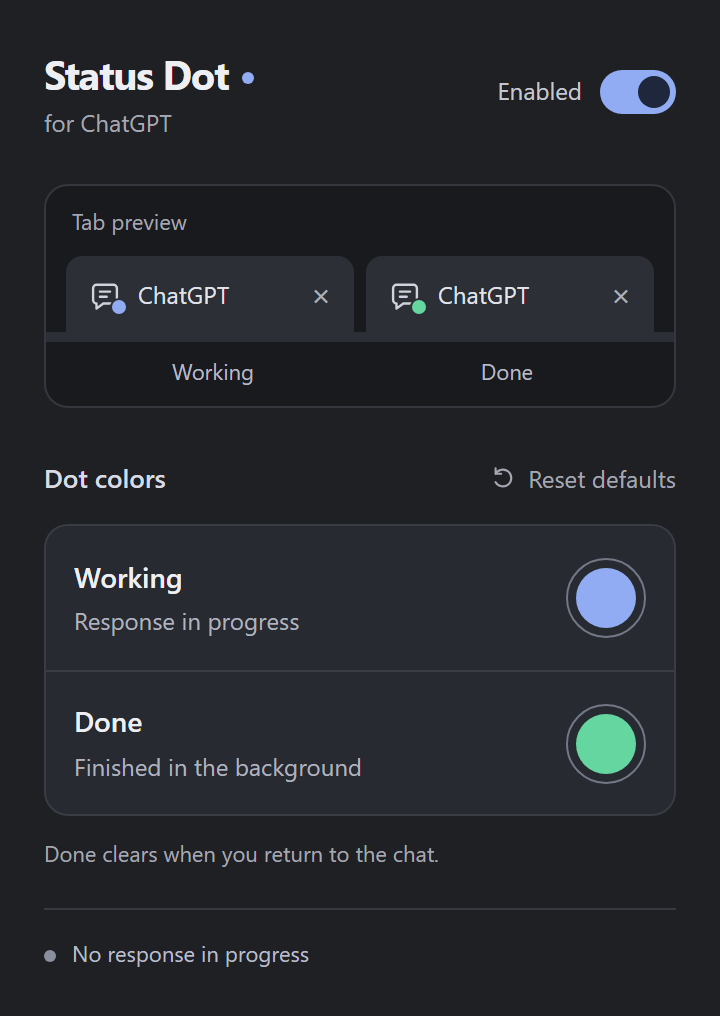
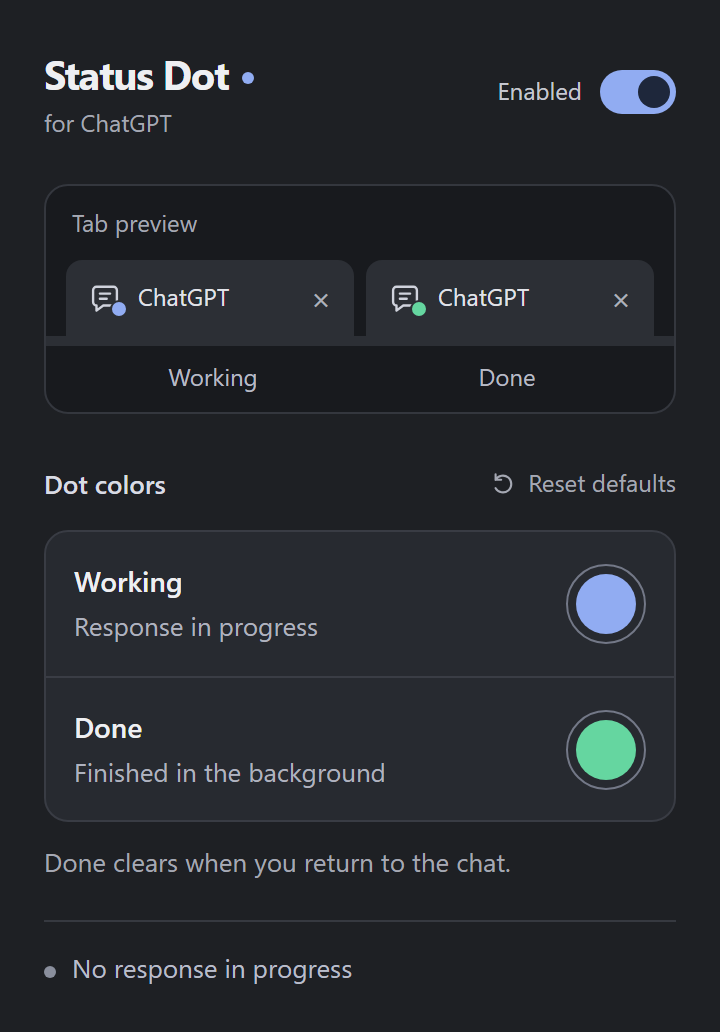
Increase settings text size for readability

diff --git a/extension/popup.css b/extension/popup.css
@@ -23,7 +23,7 @@ h1 { display: flex; align-items: center; gap: 7px; margin: 0; font-size: 20px; f
 .toggle input:focus-visible + .switch { outline: 2px solid #c2d0fa; outline-offset: 4px; }
 .toggle:has(input:disabled) { cursor: wait; }
 .preview { margin: 22px 0 20px; overflow: hidden; border: 1px solid #34373e; border-radius: 12px; background: #181a1e; }
-.preview-caption { padding: 10px 13px 9px; font-size: 11px; color: var(--muted); }
+.preview-caption { padding: 10px 13px 9px; font-size: 12px; color: var(--muted); }
 .tab-strip { display: flex; gap: 6px; padding: 0 10px; border-bottom: 5px solid #2c2f35; }
 .tab { display: flex; align-items: center; gap: 8px; width: 50%; height: 38px; padding: 0 11px; border-radius: 8px 8px 0 0; background: #2c2f35; color: #e1e3e9; font-size: 12px; }
 .tab-icon { position: relative; display: block; flex: none; width: 17px; height: 17px; }
@@ -32,7 +32,7 @@ h1 { display: flex; align-items: center; gap: 7px; margin: 0; font-size: 20px; f
 .working { background: var(--working); }
 .done { background: var(--done); }
 .tab-close { margin-left: auto; color: #acafba; font-size: 16px; line-height: 1; }
-.preview-labels { display: grid; grid-template-columns: 1fr 1fr; padding: 7px 10px 9px; text-align: center; font-size: 11px; color: #b7bac4; }
+.preview-labels { display: grid; grid-template-columns: 1fr 1fr; padding: 7px 10px 9px; text-align: center; font-size: 12px; color: #b7bac4; }
 body[data-enabled="false"] .dot { visibility: hidden; }
 body[data-enabled="false"] .brand-dot { background: #777c8b; }
 .section-heading { display: flex; align-items: center; justify-content: space-between; margin: 0 0 8px; }
@@ -46,13 +46,13 @@ h2 { margin: 0; font-size: 13px; font-weight: 600; color: #d9dbe3; }
 .color-row + .color-row { border-top: 1px solid #3a3d45; }
 .color-row:hover { background: #2d3037; }
 .color-name { display: block; font-size: 14px; font-weight: 600; }
-.color-description { display: block; margin-top: 3px; font-size: 12px; color: #afb2bf; }
+.color-description { display: block; margin-top: 3px; font-size: 13px; color: #afb2bf; }
 input[type="color"] { flex: none; width: 40px; height: 40px; padding: 4px; border: 1px solid #737887; border-radius: 50%; background: transparent; cursor: pointer; }
 input[type="color"]::-webkit-color-swatch-wrapper { padding: 0; }
 input[type="color"]::-webkit-color-swatch { border: 0; border-radius: 50%; }
 input[type="color"]:hover { border-color: #d1d6e5; }
-.hint { margin: 11px 0 0; font-size: 11px; color: var(--muted); }
-.status-line { display: flex; align-items: baseline; gap: 8px; margin-top: 19px; padding-top: 14px; border-top: 1px solid #363940; color: #b9bdc9; font-size: 11px; }
+.hint { margin: 11px 0 0; font-size: 13px; color: var(--muted); }
+.status-line { display: flex; align-items: baseline; gap: 8px; margin-top: 19px; padding-top: 14px; border-top: 1px solid #363940; color: #b9bdc9; font-size: 13px; }
 .status-dot { flex: none; width: 6px; height: 6px; border-radius: 50%; background: #8a8f9d; }
 .status-line[data-state="working"] .status-dot { background: var(--working); }
 .status-line[data-state="done"] .status-dot { background: var(--done); }

diff --git a/extension/content.js b/extension/content.js
@@ -1,7 +1,7 @@
 (() => {
   "use strict";
   const KEY = "__chatgptActivityDotV1";
-  const BUILD = "1.2.0";
+  const BUILD = "1.2.1";
   const HANDOFF_EVENT = "chatgpt-activity-dot:handoff";
   const HANDOFF_ATTRIBUTE = "data-chatgpt-activity-dot-handoff";
   const ICON_ID = "chatgpt-activity-dot-favicon";
